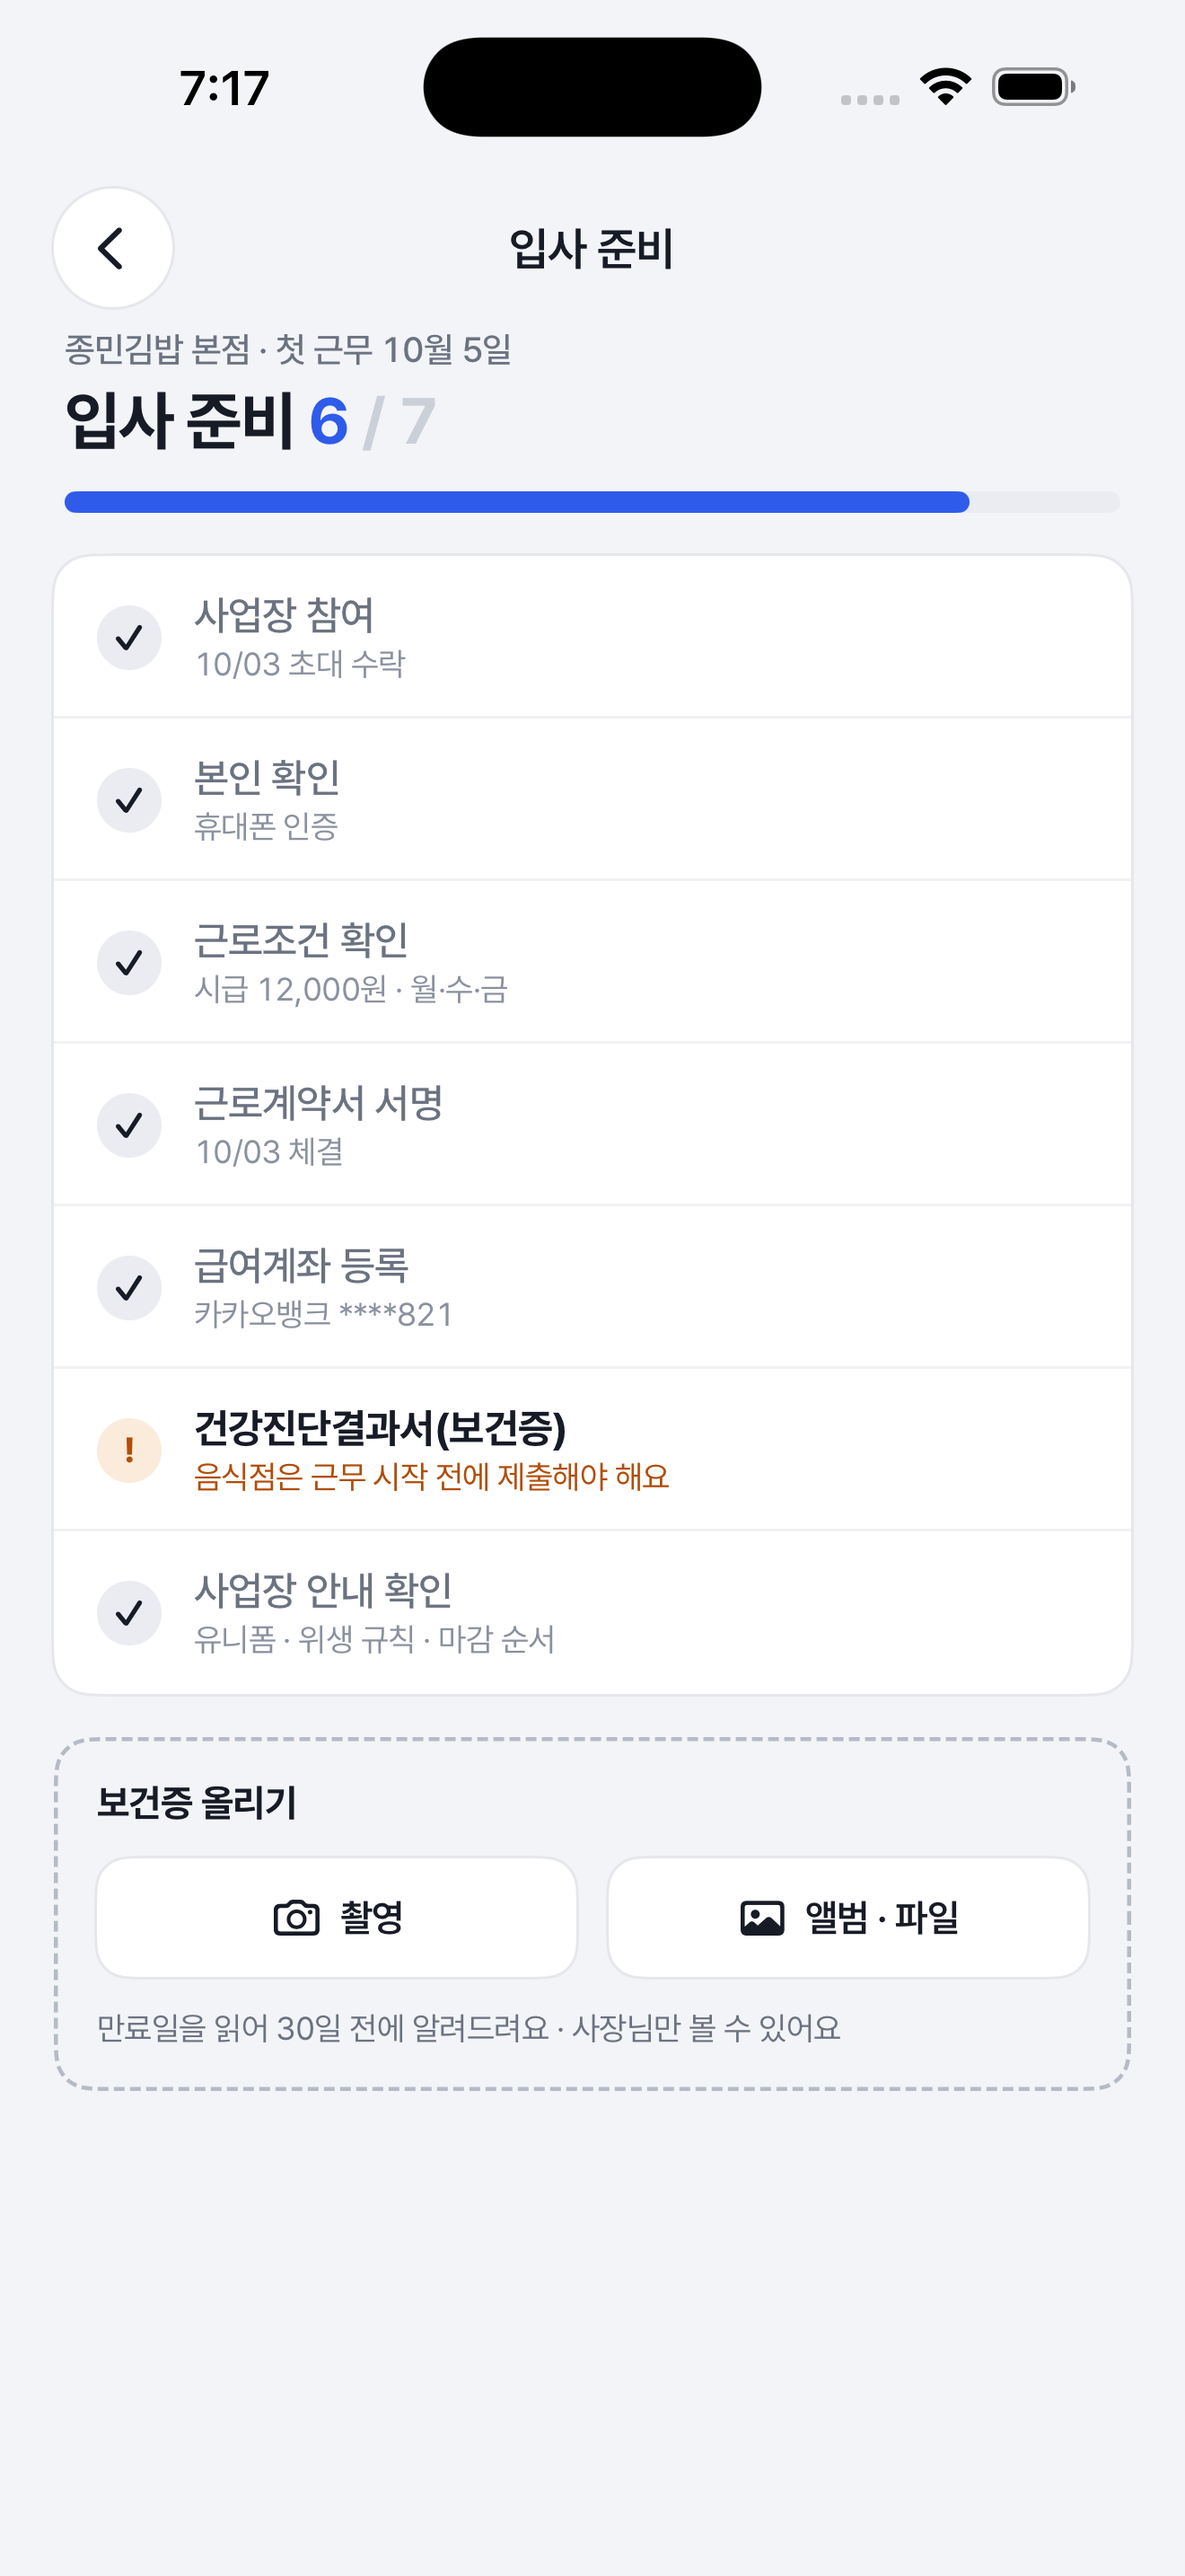
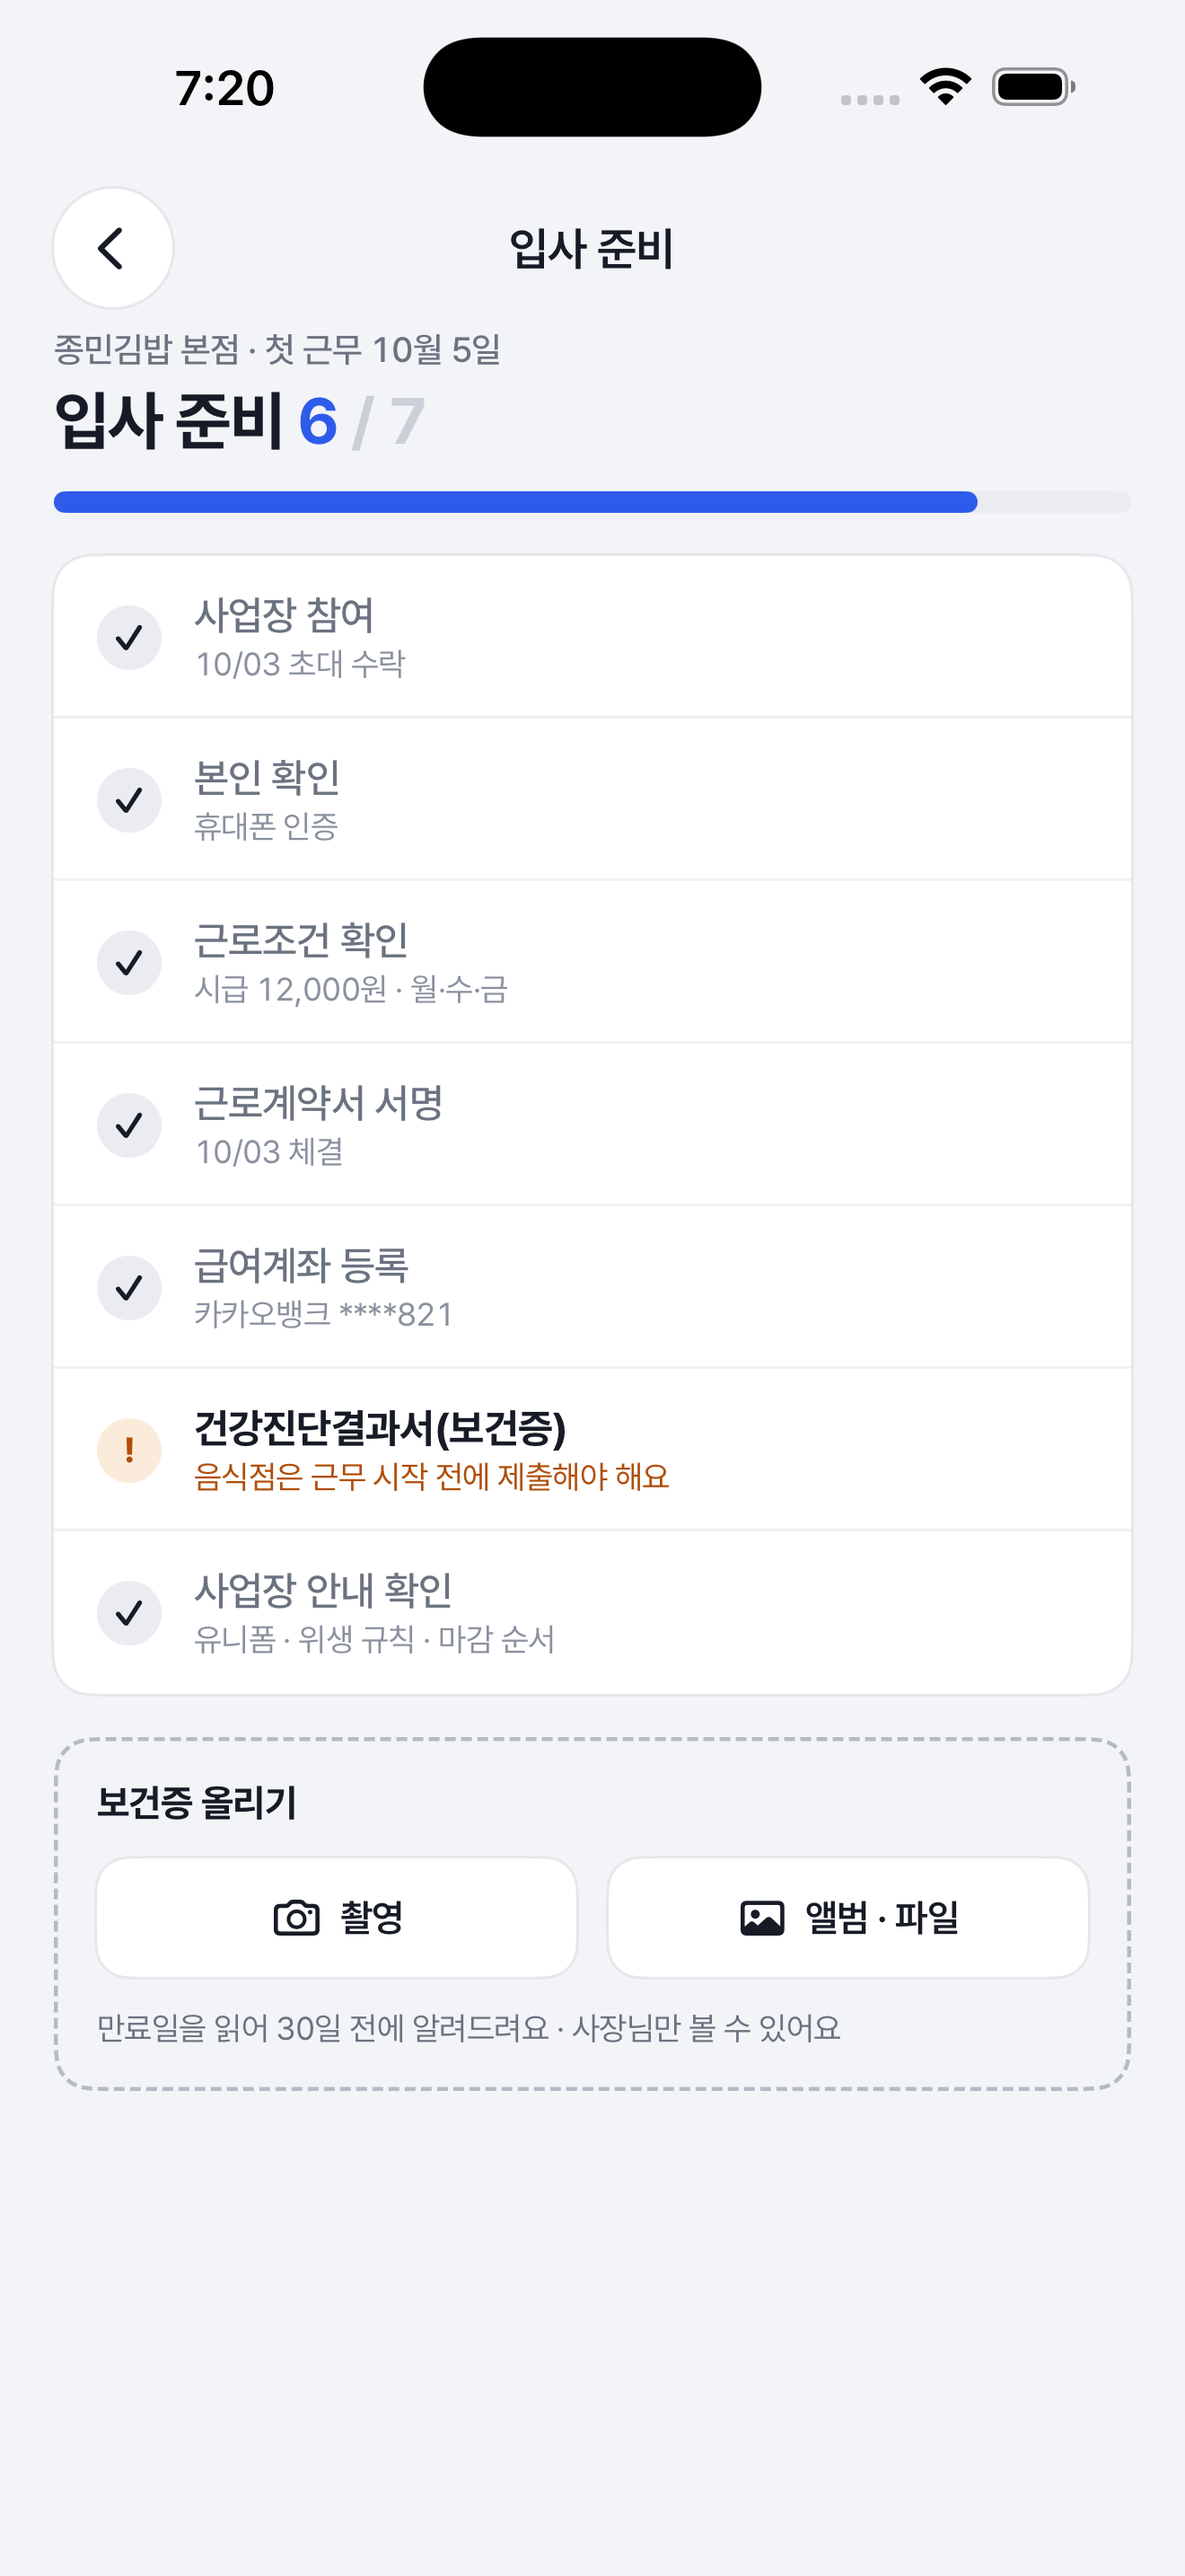
fix(onboarding): 6i 제목 블록 왼쪽 선 맞춤 · 앨범 버튼 읽기
QA 반영 — 제목 · 막대가 카드보다 4pt 안쪽이던 것을 원문처럼 같은 선에, 「앨범 · 파일」은 「앨범 또는 파일」로 읽음.

UI-IOS-6i · #327

Changed region(s): [[0.0311, 0.1241, 0.4348, 0.1862], [0.1553, 0.031, 0.2174, 0.0621]]

diff --git a/Pum/Pum/Features/Onboarding/OnboardingChecklist/OnboardingChecklistView.swift b/Pum/Pum/Features/Onboarding/OnboardingChecklist/OnboardingChecklistView.swift
@@ -70,7 +70,6 @@ struct OnboardingChecklistView: View {
             bar.padding(.top, PumTokens.Space.s8)
                 .accessibilityHidden(true) // 제목이 같은 내용을 읽음
         }
-        .padding(.horizontal, PumTokens.Space.s4)
         .frame(maxWidth: .infinity, alignment: .leading)
     }
 
@@ -171,6 +170,7 @@ struct OnboardingChecklistView: View {
 
     private var fileButton: some View {
         uploadButton(icon: "photo", title: OnboardingChecklistState.pickFileTitle, action: onPickFile)
+            .accessibilityLabel(Text("앨범 또는 파일")) // 「·」를 「점」으로 읽지 않게
     }
 
     private func uploadButton(icon: String, title: String, action: @escaping () -> Void) -> some View {
